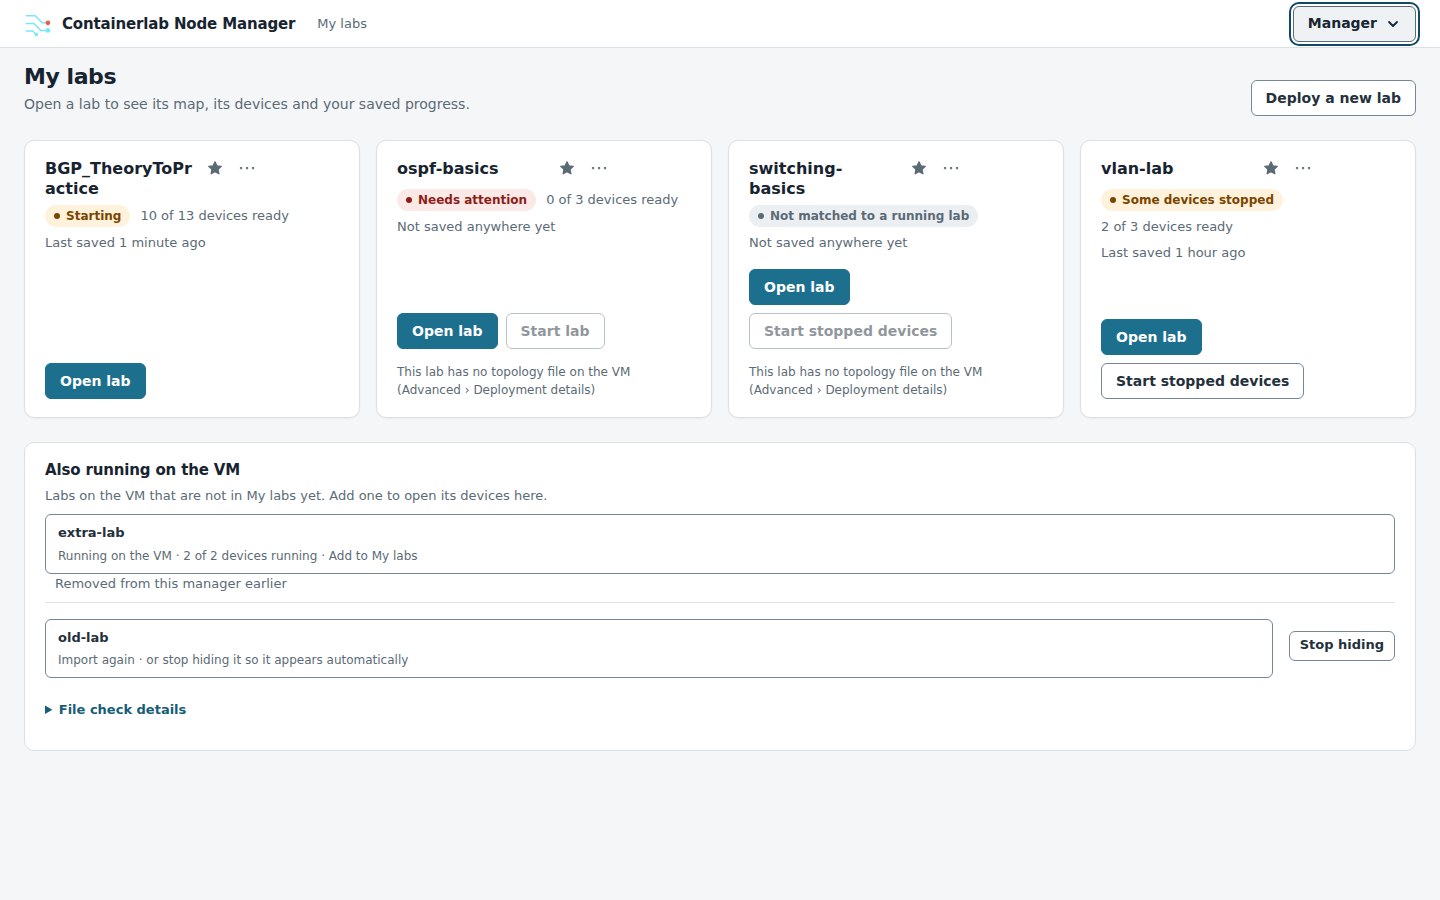
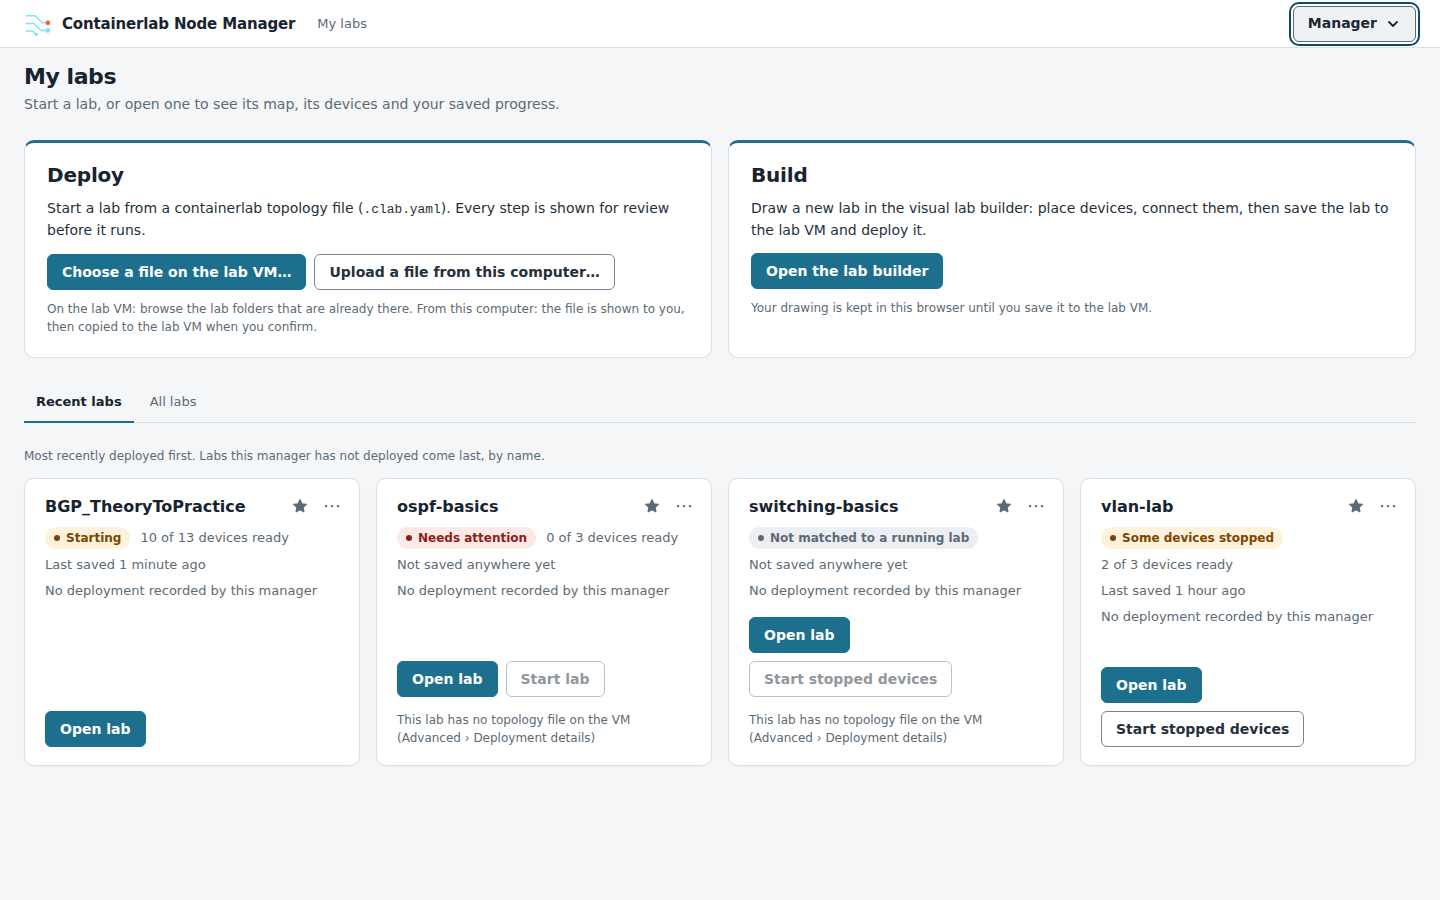
Release 1.30.20: maintenance audit chunk 3, student workflow guides and three tour screenshots
Save progress, lab operations, lab builder, node features, naming, README and tour
reconciled with the UI code and routes: mandatory upload review, folder moves,
planned folders, real recovery labels, Edit map tools and what the Topology tab does
not draw, destroy cleanup default, Advanced options, a living "Backup download names"
section. Home, Devices and Progress tour images replaced from the fixture manager.
Two behaviour defects found by reading are recorded in the audit record, not fixed.

Claude-Session: https://claude.ai/code/session_01Efeev7UDxstJmJPfEgENLu

diff --git a/clab-backup-ui/app/static/capture-setup.html b/clab-backup-ui/app/static/capture-setup.html
@@ -1,5 +1,5 @@
 <!doctype html>
-<html lang="en"><head><meta charset="utf-8"><meta name="viewport" content="width=device-width,initial-scale=1"><title>Packet capture setup · Containerlab Node Manager</title><link rel="icon" href="/static/fabric-mark.svg" type="image/svg+xml"><link rel="stylesheet" href="/static/style.css?v=1.30.19"></head>
+<html lang="en"><head><meta charset="utf-8"><meta name="viewport" content="width=device-width,initial-scale=1"><title>Packet capture setup · Containerlab Node Manager</title><link rel="icon" href="/static/fabric-mark.svg" type="image/svg+xml"><link rel="stylesheet" href="/static/style.css?v=1.30.20"></head>
 <body><main class="capture-guide"><a href="/">← Back to My labs</a><h1>Packet capture setup and troubleshooting</h1><p>For administrators. Wireshark runs on the lab VM and opens in the student's browser; nothing is installed on the workstation — no plugin, VNC client or capture-port tunnel.</p><h2>1. The VM services</h2><p>The browser capture stack is part of every installation: <code>bash "$HOME/projects/clab-manager/deploy/install.sh"</code> installs it and every later install or upgrade refreshes it. To reinstall or repair only this stack, run from any directory on the VM:</p><pre><code>sudo bash "$HOME/projects/clab-manager/deploy/setup-capture.sh"</code></pre><p>It pulls the pinned Wireshark image, builds the session service, starts Edgeshark, updates the capture settings while preserving unrelated configuration, and recreates the manager so it loads them. Download active browser captures before upgrading: restarting the service removes temporary sessions.</p><p>The bundled stack needs free localhost ports 5001 and 5801. Setup does not remove another tool's Edgeshark installation; resolve conflicts first. Keep the manager on a trusted management network or use an authenticated HTTPS reverse proxy with WebSocket support.</p><h2>2. Capture in the browser</h2><p>Students open <strong>Capture traffic…</strong> from a device, a link on the map or Tools › Packet capture. The dialog lists the device's connected interfaces first; <strong>Start capture → Open Wireshark ↗</strong> opens the viewer in a new tab. On a link either end can be chosen. <strong>Everything on the VM</strong> under Advanced includes host NICs, bridges and other namespaces.</p><h2>3. Save, download and end</h2><p>Stop capturing in Wireshark, then use <strong>File → Save As</strong> under <strong>/pcaps</strong> with the full file name ending in .pcapng. <strong>Download saved captures</strong> hands over a .tar archive with the PCAPNG files. <strong>End session</strong> deletes the container and its files.</p><p>Four sessions can run at once. A closed viewer stays available for 15 minutes under <strong>Your capture sessions</strong>. Every session ends after two hours. The capture folder holds 256 MiB. Save and download before expiry; capture files never enter backups or Git history.</p><h2>Troubleshooting</h2><ul><li><strong>"Packet capture is not set up on this VM":</strong> run setup, recreate the manager and check the service logs below.</li><li><strong>Disconnected from Wireshark:</strong> Reconnect viewer joins the existing session; the capture may still be running.</li><li><strong>Session not found:</strong> it may have ended, expired or belong to another browser profile.</li><li><strong>No matching interface:</strong> choose Everything on the VM and pick the Linux interface name; device port names (ge-0/0/0) often map to eth1, eth2…</li><li><strong>Download reports no saved captures:</strong> stop the capture in Wireshark, use File → Save As under /pcaps, then download again; the archive only holds that folder.</li><li><strong>No packets:</strong> check the endpoint and generate traffic. DOWN interfaces, stopped containers and traffic hidden inside nested VMs remain outside exposed Linux interfaces.</li></ul><pre><code>sudo docker compose --env-file "$HOME/projects/clab-manager/clab-backup-ui/.env" -f "$HOME/projects/clab-manager/deploy/compose.capture.yml" ps
 sudo docker compose --env-file "$HOME/projects/clab-manager/clab-backup-ui/.env" -f "$HOME/projects/clab-manager/deploy/compose.capture.yml" logs --tail=80 sessions
 bash "$HOME/projects/clab-manager/deploy/check-install.sh"</code></pre><p>See <strong>docs/CAPTURE.md</strong> for architecture, manual configuration, removal and validation details. Replace <code>$HOME/projects/clab-manager</code> if you cloned the source elsewhere.</p></main></body></html>

diff --git a/clab-backup-ui/app/static/map-editor.html b/clab-backup-ui/app/static/map-editor.html
@@ -1,5 +1,5 @@
 <!doctype html>
-<html lang="en"><head><meta charset="utf-8"><meta name="viewport" content="width=device-width,initial-scale=1"><title>Edit map · Containerlab Node Manager</title><link rel="icon" href="/static/fabric-mark.svg" type="image/svg+xml"><link rel="stylesheet" href="/static/style.css?v=1.30.19"><link rel="stylesheet" href="/static/lab-builder/assets/main.css?v=1.30.19"><link rel="stylesheet" href="/static/lab-builder.css?v=1.30.19"><script src="/static/map-editor-page.js?v=1.30.19" defer></script><script type="module" src="/static/lab-builder/assets/main.js?v=1.30.19"></script></head>
+<html lang="en"><head><meta charset="utf-8"><meta name="viewport" content="width=device-width,initial-scale=1"><title>Edit map · Containerlab Node Manager</title><link rel="icon" href="/static/fabric-mark.svg" type="image/svg+xml"><link rel="stylesheet" href="/static/style.css?v=1.30.20"><link rel="stylesheet" href="/static/lab-builder/assets/main.css?v=1.30.20"><link rel="stylesheet" href="/static/lab-builder.css?v=1.30.20"><script src="/static/map-editor-page.js?v=1.30.20" defer></script><script type="module" src="/static/lab-builder/assets/main.js?v=1.30.20"></script></head>
 <body class="lab-builder map-editor"><header class="builder-bar" id="builder-bar"><a class="builder-back" id="map-back" href="/">← Back to the lab</a><strong class="builder-title">Edit map</strong><span class="builder-name" id="map-name"></span><span class="pill neutral" id="map-status" role="status"></span><span class="builder-spacer"></span><button class="button secondary" id="map-undo" disabled title="Undo (Ctrl+Z)">Undo</button><button class="button secondary" id="map-redo" disabled title="Redo (Ctrl+Shift+Z)">Redo</button><button class="button secondary" id="map-look" disabled>Device look…</button><button class="button secondary" id="map-link" disabled>Link labels…</button><button class="button secondary" id="map-import" disabled>Import map file…</button><button class="button secondary" id="map-download" disabled>Download map file</button><button class="button secondary" id="map-drawio" disabled>Export to draw.io</button><button class="button primary" id="map-save" disabled>Save map</button></header>
 <p class="builder-note" id="map-note" role="note">You are editing the drawing only: positions, text, shapes, groups and label settings. Devices and links belong to the topology and cannot be added, changed or removed here; nothing is deployed and the running lab is not touched.</p>
 <div class="builder-stage"><div id="root"></div>

diff --git a/clab-backup-ui/app/static/lab-builder.html b/clab-backup-ui/app/static/lab-builder.html
@@ -1,5 +1,5 @@
 <!doctype html>
-<html lang="en"><head><meta charset="utf-8"><meta name="viewport" content="width=device-width,initial-scale=1"><title>Lab builder · Containerlab Node Manager</title><link rel="icon" href="/static/fabric-mark.svg" type="image/svg+xml"><link rel="stylesheet" href="/static/style.css?v=1.30.19"><link rel="stylesheet" href="/static/lab-builder/assets/main.css?v=1.30.19"><link rel="stylesheet" href="/static/lab-builder.css?v=1.30.19"><script src="/static/lab-builder-page.js?v=1.30.19" defer></script><script src="/static/topology-render.js?v=1.30.19" defer></script><script src="/static/operations.js?v=1.30.19" defer></script><script type="module" src="/static/lab-builder/assets/main.js?v=1.30.19"></script></head>
+<html lang="en"><head><meta charset="utf-8"><meta name="viewport" content="width=device-width,initial-scale=1"><title>Lab builder · Containerlab Node Manager</title><link rel="icon" href="/static/fabric-mark.svg" type="image/svg+xml"><link rel="stylesheet" href="/static/style.css?v=1.30.20"><link rel="stylesheet" href="/static/lab-builder/assets/main.css?v=1.30.20"><link rel="stylesheet" href="/static/lab-builder.css?v=1.30.20"><script src="/static/lab-builder-page.js?v=1.30.20" defer></script><script src="/static/topology-render.js?v=1.30.20" defer></script><script src="/static/operations.js?v=1.30.20" defer></script><script type="module" src="/static/lab-builder/assets/main.js?v=1.30.20"></script></head>
 <body class="lab-builder"><header class="builder-bar" id="builder-bar"><a class="builder-back" href="/">← My labs</a><strong class="builder-title">Lab builder</strong><span class="builder-name" id="builder-name"></span><span class="pill neutral" id="builder-status" role="status"></span><span class="builder-spacer"></span><button class="button secondary" id="builder-drafts">Drafts…</button><button class="button secondary" id="builder-download" disabled>Download draft</button><button class="button secondary" id="builder-yaml" disabled>View YAML</button><button class="button primary" id="builder-save" disabled>Save to the VM…</button></header>
 <p class="builder-note" id="builder-note" role="status" hidden><span id="builder-note-text"></span> <button class="button secondary" id="builder-note-retry" hidden>Check again</button></p>
 <div class="builder-stage"><div id="root"></div>

diff --git a/clab-backup-ui/app/static/index.html b/clab-backup-ui/app/static/index.html
@@ -1,6 +1,6 @@
 <!doctype html>
 <html lang="en">
-<head><meta charset="utf-8"><meta name="viewport" content="width=device-width,initial-scale=1"><title>Containerlab Node Manager</title><link rel="icon" type="image/svg+xml" href="/static/fabric-mark.svg"><link rel="stylesheet" href="/static/style.css?v=1.30.19"><script src="/static/status.js?v=1.30.19" defer></script><script src="/static/shell.js?v=1.30.19" defer></script><script src="/static/app.js?v=1.30.19" defer></script><script src="/static/topology-render.js?v=1.30.19" defer></script><script src="/static/topology.js?v=1.30.19" defer></script><script src="/static/home.js?v=1.30.19" defer></script><script src="/static/management.js?v=1.30.19" defer></script><script src="/static/operations.js?v=1.30.19" defer></script><script src="/static/diagram-editor.js?v=1.30.19" defer></script><script src="/static/git-progress.js?v=1.30.19" defer></script><script src="/static/git-places.js?v=1.30.19" defer></script><script src="/static/restore.js?v=1.30.19" defer></script><script src="/static/capture.js?v=1.30.19" defer></script></head>
+<head><meta charset="utf-8"><meta name="viewport" content="width=device-width,initial-scale=1"><title>Containerlab Node Manager</title><link rel="icon" type="image/svg+xml" href="/static/fabric-mark.svg"><link rel="stylesheet" href="/static/style.css?v=1.30.20"><script src="/static/status.js?v=1.30.20" defer></script><script src="/static/shell.js?v=1.30.20" defer></script><script src="/static/app.js?v=1.30.20" defer></script><script src="/static/topology-render.js?v=1.30.20" defer></script><script src="/static/topology.js?v=1.30.20" defer></script><script src="/static/home.js?v=1.30.20" defer></script><script src="/static/management.js?v=1.30.20" defer></script><script src="/static/operations.js?v=1.30.20" defer></script><script src="/static/diagram-editor.js?v=1.30.20" defer></script><script src="/static/git-progress.js?v=1.30.20" defer></script><script src="/static/git-places.js?v=1.30.20" defer></script><script src="/static/restore.js?v=1.30.20" defer></script><script src="/static/capture.js?v=1.30.20" defer></script></head>
 <body>
 
 <svg hidden aria-hidden="true" focusable="false" xmlns="http://www.w3.org/2000/svg">

diff --git a/clab-backup-ui/app/static/workspace.html b/clab-backup-ui/app/static/workspace.html
@@ -1,3 +1,3 @@
 <!doctype html>
-<html lang="en"><head><meta charset="utf-8"><meta name="viewport" content="width=device-width,initial-scale=1"><title>Deploy a new lab · Containerlab Node Manager</title><link rel="icon" href="/static/fabric-mark.svg" type="image/svg+xml"><link rel="stylesheet" href="/static/style.css?v=1.30.19"><script src="/static/status.js?v=1.30.19" defer></script><script src="/static/workspace.js?v=1.30.19" defer></script><script src="/static/topology-render.js?v=1.30.19" defer></script><script src="/static/operations.js?v=1.30.19" defer></script><script src="/static/diagram-editor.js?v=1.30.19" defer></script></head>
+<html lang="en"><head><meta charset="utf-8"><meta name="viewport" content="width=device-width,initial-scale=1"><title>Deploy a new lab · Containerlab Node Manager</title><link rel="icon" href="/static/fabric-mark.svg" type="image/svg+xml"><link rel="stylesheet" href="/static/style.css?v=1.30.20"><script src="/static/status.js?v=1.30.20" defer></script><script src="/static/workspace.js?v=1.30.20" defer></script><script src="/static/topology-render.js?v=1.30.20" defer></script><script src="/static/operations.js?v=1.30.20" defer></script><script src="/static/diagram-editor.js?v=1.30.20" defer></script></head>
 <body class="standalone-workspace"><main class="content"><a class="workspace-back" href="/">← Back to My labs</a><h1 id="workspace-title">Deploy a new lab</h1><p id="workspace-message" role="status"></p><div class="workspace-choices" id="workspace-choices"><button class="workspace-choice workspace-choice-primary" id="workspace-open"><strong>Lab topologies on the VM</strong><span>Browse the topology files on the VM, pick a lab and start it.</span><span aria-hidden="true">Browse topologies →</span></button><button class="workspace-choice" id="workspace-history"><strong>Operation history</strong><span>See what earlier lab operations did and whether they succeeded.</span></button></div><section id="workspace-content"></section><p class="workspace-links"><a href="/static/debug.html">Diagnostics</a> · If folders on the VM will not open, run the checks there.</p></main><div id="toast" role="status" hidden></div></body></html>

diff --git a/clab-backup-ui/app/static/grafana.html b/clab-backup-ui/app/static/grafana.html
@@ -1,3 +1,3 @@
 <!doctype html>
-<html lang="en"><head><meta charset="utf-8"><meta name="viewport" content="width=device-width,initial-scale=1"><title>Network dashboard · Containerlab Node Manager</title><link rel="icon" href="/static/fabric-mark.svg" type="image/svg+xml"><link rel="stylesheet" href="/static/style.css?v=1.30.19"></head>
-<body><main class="capture-guide"><a href="/">← Back to My labs</a><h1 id="grafana-title">Network dashboard</h1><p id="grafana-headline" hidden></p><p id="grafana-status" role="status" aria-live="polite">Checking the dashboard on the VM…</p><p class="form-help">The dashboard runs on the lab VM only while someone is viewing it. The manager starts it when you open it and stops it again after a while with nobody watching. It shows about the last fifteen minutes of data.</p><div class="actions"><a class="button primary" id="grafana-open" hidden>Open dashboard <span aria-hidden="true">↗</span></a><button class="button secondary" id="grafana-retry" hidden>Try again</button></div></main><script src="/static/grafana.js?v=1.30.19"></script></body></html>
+<html lang="en"><head><meta charset="utf-8"><meta name="viewport" content="width=device-width,initial-scale=1"><title>Network dashboard · Containerlab Node Manager</title><link rel="icon" href="/static/fabric-mark.svg" type="image/svg+xml"><link rel="stylesheet" href="/static/style.css?v=1.30.20"></head>
+<body><main class="capture-guide"><a href="/">← Back to My labs</a><h1 id="grafana-title">Network dashboard</h1><p id="grafana-headline" hidden></p><p id="grafana-status" role="status" aria-live="polite">Checking the dashboard on the VM…</p><p class="form-help">The dashboard runs on the lab VM only while someone is viewing it. The manager starts it when you open it and stops it again after a while with nobody watching. It shows about the last fifteen minutes of data.</p><div class="actions"><a class="button primary" id="grafana-open" hidden>Open dashboard <span aria-hidden="true">↗</span></a><button class="button secondary" id="grafana-retry" hidden>Try again</button></div></main><script src="/static/grafana.js?v=1.30.20"></script></body></html>

diff --git a/clab-backup-ui/app/static/terminal.html b/clab-backup-ui/app/static/terminal.html
@@ -1,5 +1,5 @@
 <!doctype html>
 <html lang="en">
-<head><meta charset="utf-8"><meta name="viewport" content="width=device-width,initial-scale=1"><title>Containerlab Node Manager · SSH</title><link rel="icon" type="image/svg+xml" href="/static/fabric-mark.svg"><link rel="stylesheet" href="/static/vendor/xterm.css"><link rel="stylesheet" href="/static/terminal.css?v=1.30.19"><script src="/static/vendor/xterm.js" defer></script><script src="/static/vendor/addon-fit.js" defer></script><script src="/static/terminal.js?v=1.30.19" defer></script></head>
+<head><meta charset="utf-8"><meta name="viewport" content="width=device-width,initial-scale=1"><title>Containerlab Node Manager · SSH</title><link rel="icon" type="image/svg+xml" href="/static/fabric-mark.svg"><link rel="stylesheet" href="/static/vendor/xterm.css"><link rel="stylesheet" href="/static/terminal.css?v=1.30.20"><script src="/static/vendor/xterm.js" defer></script><script src="/static/vendor/addon-fit.js" defer></script><script src="/static/terminal.js?v=1.30.20" defer></script></head>
 <body><header><div class="terminal-identity"><img src="/static/fabric-mark.svg" alt=""><div><span class="brand-label">SSH session</span><strong id="title">Device CLI</strong><span id="endpoint"></span><a id="back" class="terminal-back" href="/" hidden>← Lab</a></div></div><div class="session-controls"><span id="status" role="status">Disconnected</span><button id="connect">Reconnect</button><button id="disconnect">Disconnect</button></div></header><div class="notice"><span id="notice-text">Logged in with your saved credentials. The session closes after 15 minutes without activity.</span> <details class="terminal-details"><summary>Details</summary><span>Commands run with your saved account’s permissions. Host keys follow the manager’s trusted-lab policy. A session ends after 4 hours at most.</span></details></div><div id="terminal" aria-label="Interactive SSH terminal"></div></body>
 </html>

diff --git a/clab-backup-ui/app/static/capture-session.html b/clab-backup-ui/app/static/capture-session.html
@@ -1,3 +1,3 @@
 <!doctype html>
-<html lang="en"><head><meta charset="utf-8"><meta name="viewport" content="width=device-width,initial-scale=1"><title>Wireshark · Containerlab Node Manager</title><link rel="icon" href="/static/fabric-mark.svg" type="image/svg+xml"><link rel="stylesheet" href="/static/style.css?v=1.30.19"><script type="module" src="/static/capture-session.js?v=1.30.19"></script></head>
+<html lang="en"><head><meta charset="utf-8"><meta name="viewport" content="width=device-width,initial-scale=1"><title>Wireshark · Containerlab Node Manager</title><link rel="icon" href="/static/fabric-mark.svg" type="image/svg+xml"><link rel="stylesheet" href="/static/style.css?v=1.30.20"><script type="module" src="/static/capture-session.js?v=1.30.20"></script></head>
 <body class="capture-viewer"><header class="capture-viewer-toolbar"><a href="/" target="_blank" rel="noopener">Lab manager ↗</a><strong id="capture-name">Wireshark</strong><span id="viewer-status" role="status" aria-live="polite">Connecting to the VM…</span><details class="capture-viewer-help"><summary>How to save a capture</summary><p>In Wireshark, stop the capture, choose <strong>File → Save As</strong>, pick the <strong>/pcaps</strong> folder and type the full file name ending in <strong>.pcapng</strong> (Wireshark on the VM does not add it for you). Then click <strong>Download saved captures</strong>.</p><p>Ending the session deletes its files. If you close this tab the session stays available for 15 minutes; every session ends after 2 hours.</p></details><a id="capture-download" class="button secondary" hidden>Download saved captures</a><button id="capture-reconnect" type="button" class="button secondary">Reconnect viewer</button><button id="capture-end" type="button" class="button danger" disabled>End session</button></header><div id="capture-screen" aria-label="Wireshark"></div></body></html>

diff --git a/clab-backup-ui/app/static/debug.html b/clab-backup-ui/app/static/debug.html
@@ -1,5 +1,5 @@
 <!doctype html>
-<html lang="en"><head><meta charset="utf-8"><meta name="viewport" content="width=device-width,initial-scale=1"><title>Diagnostics · Containerlab Node Manager</title><link rel="icon" type="image/svg+xml" href="/static/fabric-mark.svg"><link rel="stylesheet" href="/static/style.css?v=1.30.19"><script src="/static/debug.js?v=1.30.19" defer></script></head>
+<html lang="en"><head><meta charset="utf-8"><meta name="viewport" content="width=device-width,initial-scale=1"><title>Diagnostics · Containerlab Node Manager</title><link rel="icon" type="image/svg+xml" href="/static/fabric-mark.svg"><link rel="stylesheet" href="/static/style.css?v=1.30.20"><script src="/static/debug.js?v=1.30.20" defer></script></head>
 <body class="standalone-workspace"><main class="content debug-page">
 <a class="workspace-back" href="/">← Back to My labs</a><p class="eyebrow">Manager</p><div class="section-heading"><div><h1>Diagnostics</h1><p>Check the manager and find out why folders on the VM fail to open.</p></div><div class="actions"><button class="button secondary" id="debug-refresh">Refresh</button><button class="button secondary" id="debug-download" disabled>Download report</button></div></div>
 <p class="caption">The report is a JSON file you can send to your instructor or administrator. It contains no passwords, VM paths or file contents.</p>

diff --git a/clab-backup-ui/app/static/vm-connection.html b/clab-backup-ui/app/static/vm-connection.html
@@ -1,4 +1,4 @@
-<!doctype html><html lang="en"><head><meta charset="utf-8"><meta name="viewport" content="width=device-width,initial-scale=1"><title>VM connection guide</title><link rel="stylesheet" href="/static/style.css?v=1.30.19"></head><body><main class="vm-guide"><a href="/">← Containerlab Node Manager</a><h1>VM connection — password setup and recovery</h1>
+<!doctype html><html lang="en"><head><meta charset="utf-8"><meta name="viewport" content="width=device-width,initial-scale=1"><title>VM connection guide</title><link rel="stylesheet" href="/static/style.css?v=1.30.20"></head><body><main class="vm-guide"><a href="/">← Containerlab Node Manager</a><h1>VM connection — password setup and recovery</h1>
 <p>Create the <code>clab-discovery</code> password <strong>on the VM during host setup, before launching
 the manager</strong>. The image build contains no user password. Each VM has its own
 user-created password, retained across reboots and manager upgrades.</p>

diff --git a/clab-backup-ui/app/static/app.js b/clab-backup-ui/app/static/app.js
@@ -82,7 +82,7 @@ function renderTechnical(lab){const set=(id,value)=>{if($(id))$(id).textContent=
 function render(){
  const lab=current(),home=!lab,loaded=!!state.loaded;
  setMarkup($('labs'),labsMarkup());
- const version=state.version||'1.30.19';$('app-version').textContent='v'+version;
+ const version=state.version||'1.30.20';$('app-version').textContent='v'+version;
  if($('supported-release'))$('supported-release').textContent='Works with Junos, IOS-XR and Arista EOS';
  renderWorkerState();
  $('empty').hidden=!home||!loaded||state.labs.length>0;$('lab-content').hidden=!lab;

diff --git a/clab-backup-ui/app/host_files.py b/clab-backup-ui/app/host_files.py
@@ -166,7 +166,7 @@ def collect(inspection, labels_for=None, reader=read_regular, path_type=Path, de
                     report['status'] = 'unreadable'
             if kind not in source['files']:
                 source['warnings'].append(kind + ': ' + report['status'])
-    return {'protocol': PROTOCOL, 'helper_version': '1.30.19', 'inspect': inspection, 'sources': sources}
+    return {'protocol': PROTOCOL, 'helper_version': '1.30.20', 'inspect': inspection, 'sources': sources}
 
 
 def main():
